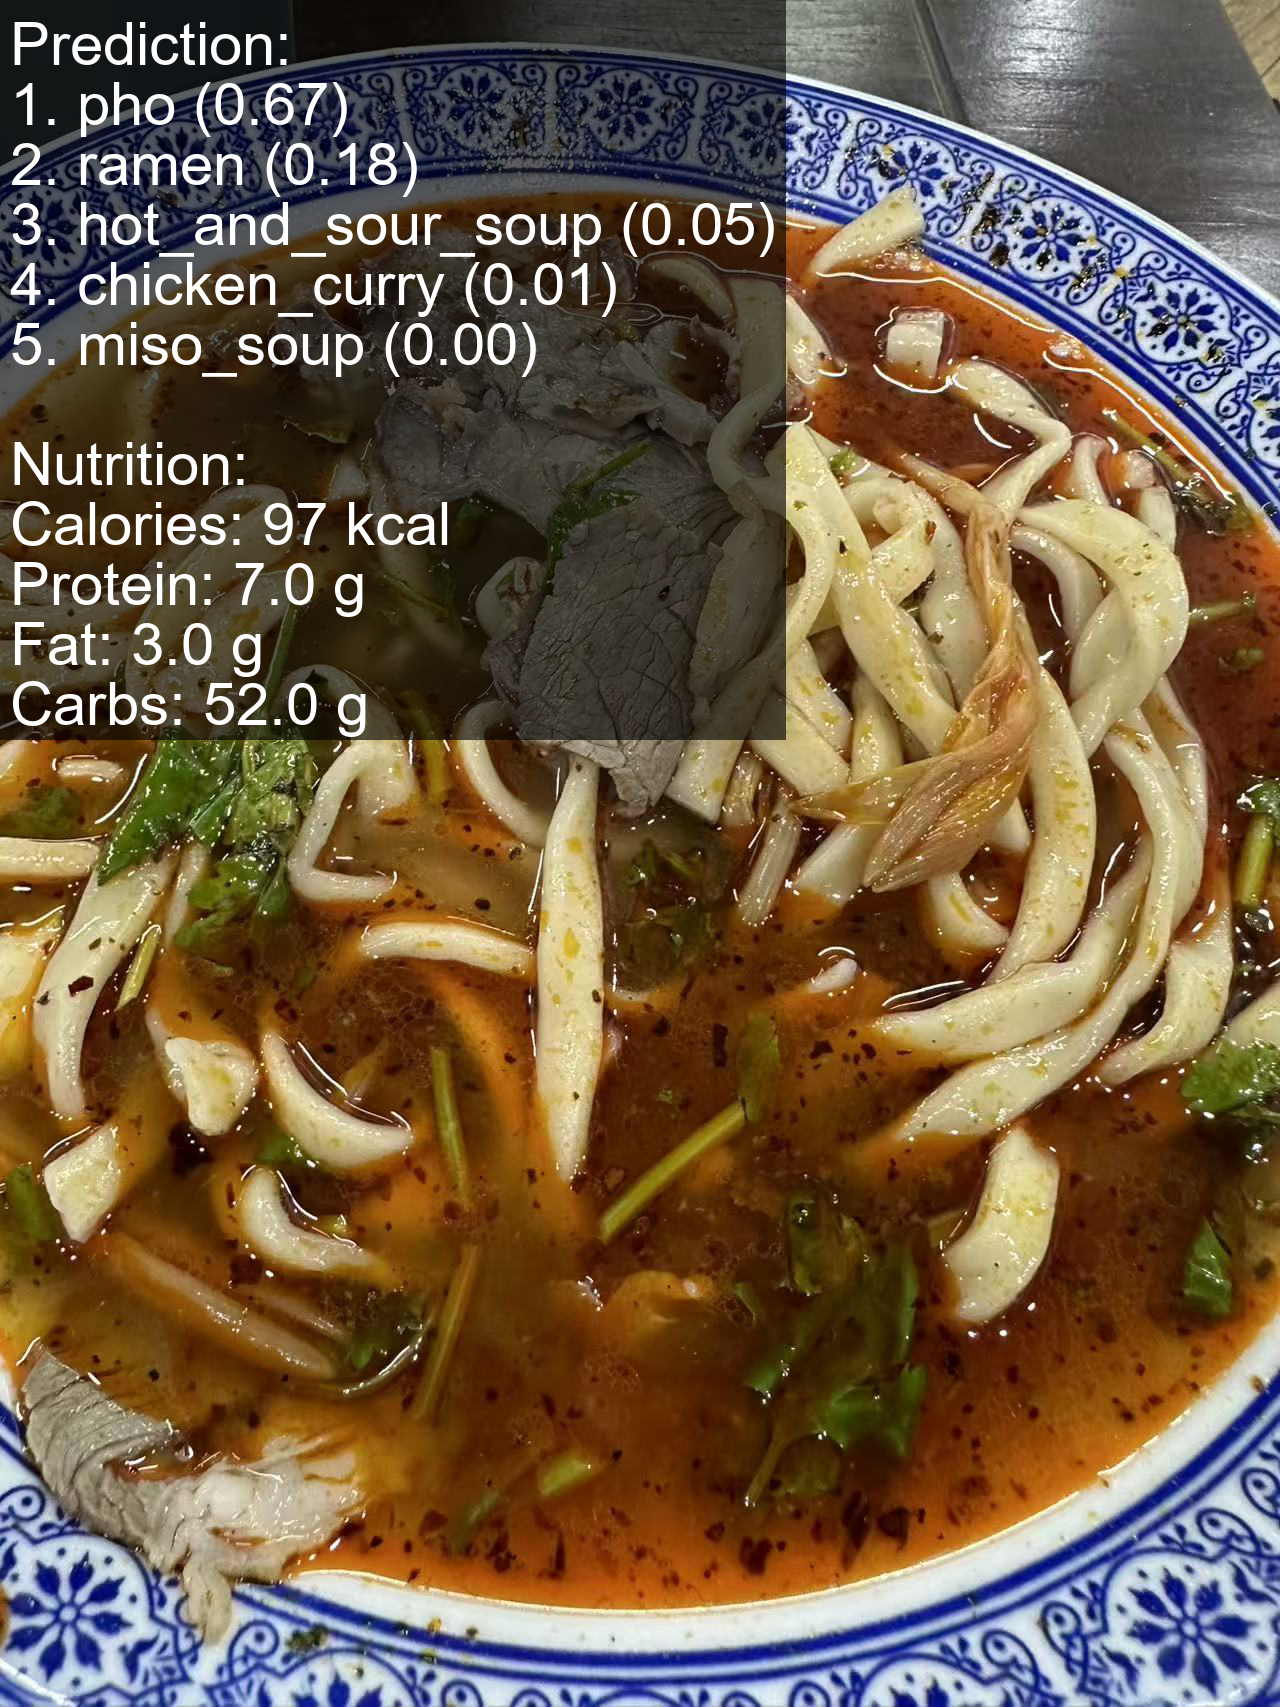
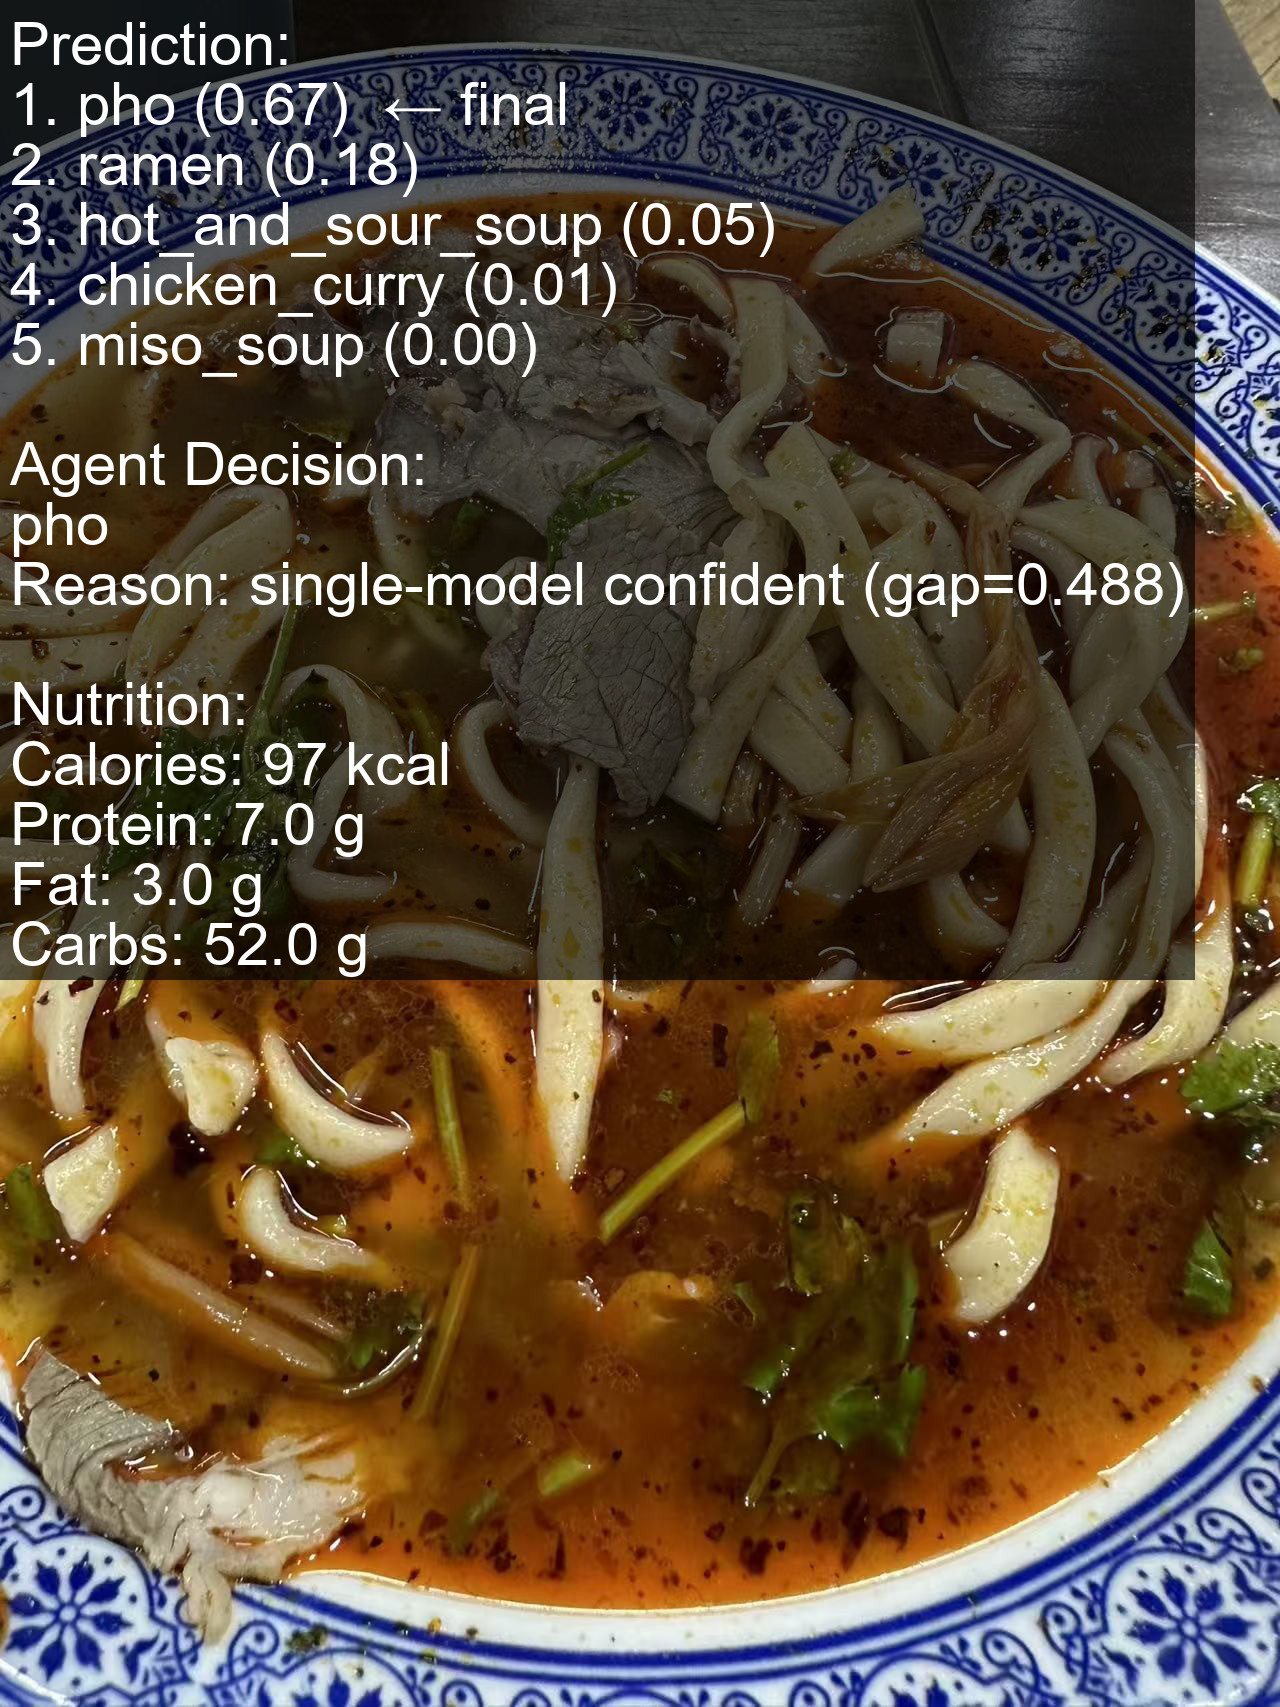
1

Changed region(s): [[0.0, 0.0, 0.9375, 0.5899], [0.3438, 0.031, 0.4375, 0.0931]]

diff --git a/src/agent/multimodal_agent.py b/src/agent/multimodal_agent.py
@@ -1,0 +1,79 @@
+import torch
+import clip
+from PIL import Image
+
+# -------------------------
+# 全局加载 CLIP（只加载一次）
+# -------------------------
+device = "cuda" if torch.cuda.is_available() else "cpu"
+clip_model, clip_preprocess = clip.load("ViT-B/32", device=device)
+
+
+@torch.no_grad()
+def clip_verify(image_path, candidate_classes):
+    """
+    image_path: str
+    candidate_classes: List[str]
+    return: similarity scores (numpy array)
+    """
+    image = clip_preprocess(
+        Image.open(image_path).convert("RGB")
+    ).unsqueeze(0).to(device)
+
+    texts = [f"a photo of {c}" for c in candidate_classes]
+    text_tokens = clip.tokenize(texts).to(device)
+
+    image_features = clip_model.encode_image(image)
+    text_features = clip_model.encode_text(text_tokens)
+
+    image_features /= image_features.norm(dim=-1, keepdim=True)
+    text_features /= text_features.norm(dim=-1, keepdim=True)
+
+    similarity = (image_features @ text_features.T).squeeze(0)
+    return similarity.cpu().numpy()
+
+
+def multimodal_decision_agent(
+    image_path,
+    cls_results,
+    prob_gap=0.25,          # 差值门槛：差值足够大就不触发 CLIP
+    min_conf=0.55,          # 低置信门槛：很不确定才考虑 CLIP
+    topk_clip=3,
+    clip_override_margin=0.10  # CLIP 要“明显更强”才允许推翻 Top-1
+):
+    """
+    cls_results: [(class_name, prob), ...]
+    return: final_class, reason
+    """
+    p1 = float(cls_results[0][1])
+    p2 = float(cls_results[1][1])
+    top1 = cls_results[0][0]
+
+    gap = p1 - p2
+
+    # 1) 差值足够大：直接信主模型（不管 p1 多高）
+    if gap >= prob_gap:
+        return top1, f"single-model confident (gap={gap:.3f})"
+
+    # 2) 置信度还行：也先信主模型
+    if p1 >= min_conf:
+        return top1, f"single-model confident (p1={p1:.3f})"
+
+    # 3) 只有在“又近又低”的情况下才调用 CLIP
+    candidates = [c for c, _ in cls_results[:topk_clip]]
+    clip_scores = clip_verify(image_path, candidates)
+
+    # 4) CLIP 只当“辅助裁决”：除非它对某个候选明显更偏好，否则不推翻 top1
+    best_idx = int(clip_scores.argmax())
+    best_cls = candidates[best_idx]
+
+    # 将 clip_scores 做成相对差（只在候选内部比较）
+    # 取 best 和 top1 在候选中的差距
+    top1_idx = candidates.index(top1)
+    margin = float(clip_scores[best_idx] - clip_scores[top1_idx])
+
+    if best_cls != top1 and margin < clip_override_margin:
+        return top1, f"clip checked, kept top1 (clip_margin={margin:.3f})"
+
+    return best_cls, f"multi-model verified (clip_margin={margin:.3f})"
+

diff --git a/src/predict.py b/src/predict.py
@@ -9,6 +9,7 @@ from PIL import Image
 import numpy as np
 from PIL import Image, ImageDraw, ImageFont
 import json
+from agent.multimodal_agent import multimodal_decision_agent
 
 
 
@@ -61,6 +62,8 @@ def predict(image_path, model, classes, device, image_size, topk=5):
 def draw_predictions_with_nutrition(
     image_path,
     results,
+    final_class,
+    agent_reason,
     nutrition,
     save_path,
     font_size=60,
@@ -76,13 +79,24 @@ def draw_predictions_with_nutrition(
     except IOError:
         font = ImageFont.load_default()
 
-    # ---------- 组织文本 ----------
-    lines = ["Prediction:"]
+    # -------- 组织文本内容 --------
+    lines = []
+    # Prediction
+    lines.append("Prediction:")
     for i, (cls, p) in enumerate(results, 1):
-        lines.append(f"{i}. {cls} ({p:.2f})")
+        mark = "  ← final" if cls == final_class else ""
+        lines.append(f"{i}. {cls} ({p:.2f}){mark}")
 
+    # Agent decision
+    lines.append("")
+    lines.append("Agent Decision:")
+    lines.append(f"{final_class}")
+    lines.append(f"Reason: {agent_reason}")
+
+    # Nutrition
     lines.append("")
     lines.append("Nutrition:")
+
 
     if nutrition is not None:
         # nutrition 是 dict
@@ -149,7 +163,16 @@ def main():
         topk=args.topk
     )
 
-    food = results[0][0]  # Top-1 类别
+
+    # ---------- Agent 决策 ----------
+    final_class, agent_reason = multimodal_decision_agent(
+        image_path=args.image,
+        cls_results=results
+    )
+    food = final_class
+    print(f"\nAgent decision: {food}")
+    print(f"Agent reason: {agent_reason}")
+
     nutrition = nutrition_db.get(food, None)
     if nutrition:
         print("\nNutrition (approx.):")
@@ -169,12 +192,14 @@ def main():
         draw_predictions_with_nutrition(
             image_path=args.image,
             results=results,
+            final_class=final_class,
+            agent_reason=agent_reason,
             nutrition=nutrition,
             save_path=out_img,
             font_size=60
         )
 
-        print(f"\nSaved visualization to: {out_img}")
+    print(f"\nSaved visualization to: {out_img}")
 
 
 if __name__ == "__main__":
